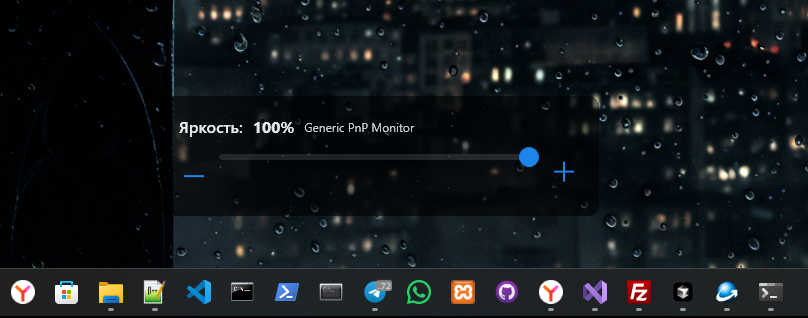
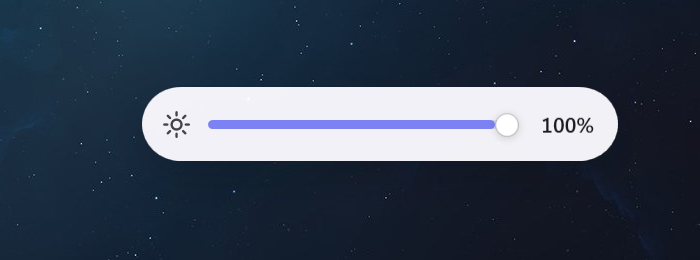
docs: свежие снимки интерфейса 1.1.1
Прежний снимок настроек показывал интерфейс до переделки. Новые сняты на
чистом рабочем столе: регулятор, три вкладки настроек, меню в трее.

Claude-Session: https://claude.ai/code/session_01BBhQwbWCsoMzyjzfx19rbF

diff --git a/README.md b/README.md
@@ -14,12 +14,19 @@
 
 ## Как выглядит
 
-<!-- СНИМКИ: ждём свежие, интерфейс переделан в 1.1.0 -->
+### Регулятор
 
-| Регулятор яркости | Настройки |
+![Регулятор яркости](screenshots/brightness-overlay.png)
+
+Появляется по горячей клавише на том экране, где сейчас курсор, и уходит сам.
+Тянуть ползунок, крутить колесо, двойным щелчком — сразу `100%`.
+
+### Настройки
+
+| Общие | Клавиши |
 |:---:|:---:|
-| ![Регулятор](screenshots/brightness-overlay.png) | ![Настройки](screenshots/settings.png) |
-| Появляется по горячей клавише на том экране, где курсор | Свой заголовок, вкладки, переключатели |
+| ![Общие](screenshots/settings-general.png) | ![Клавиши](screenshots/settings-hotkeys.png) |
+| Автозапуск, монитор по умолчанию, шаг яркости | Три комбинации, задаются нажатием |
 
 | Внешний вид | Меню в трее |
 |:---:|:---:|
